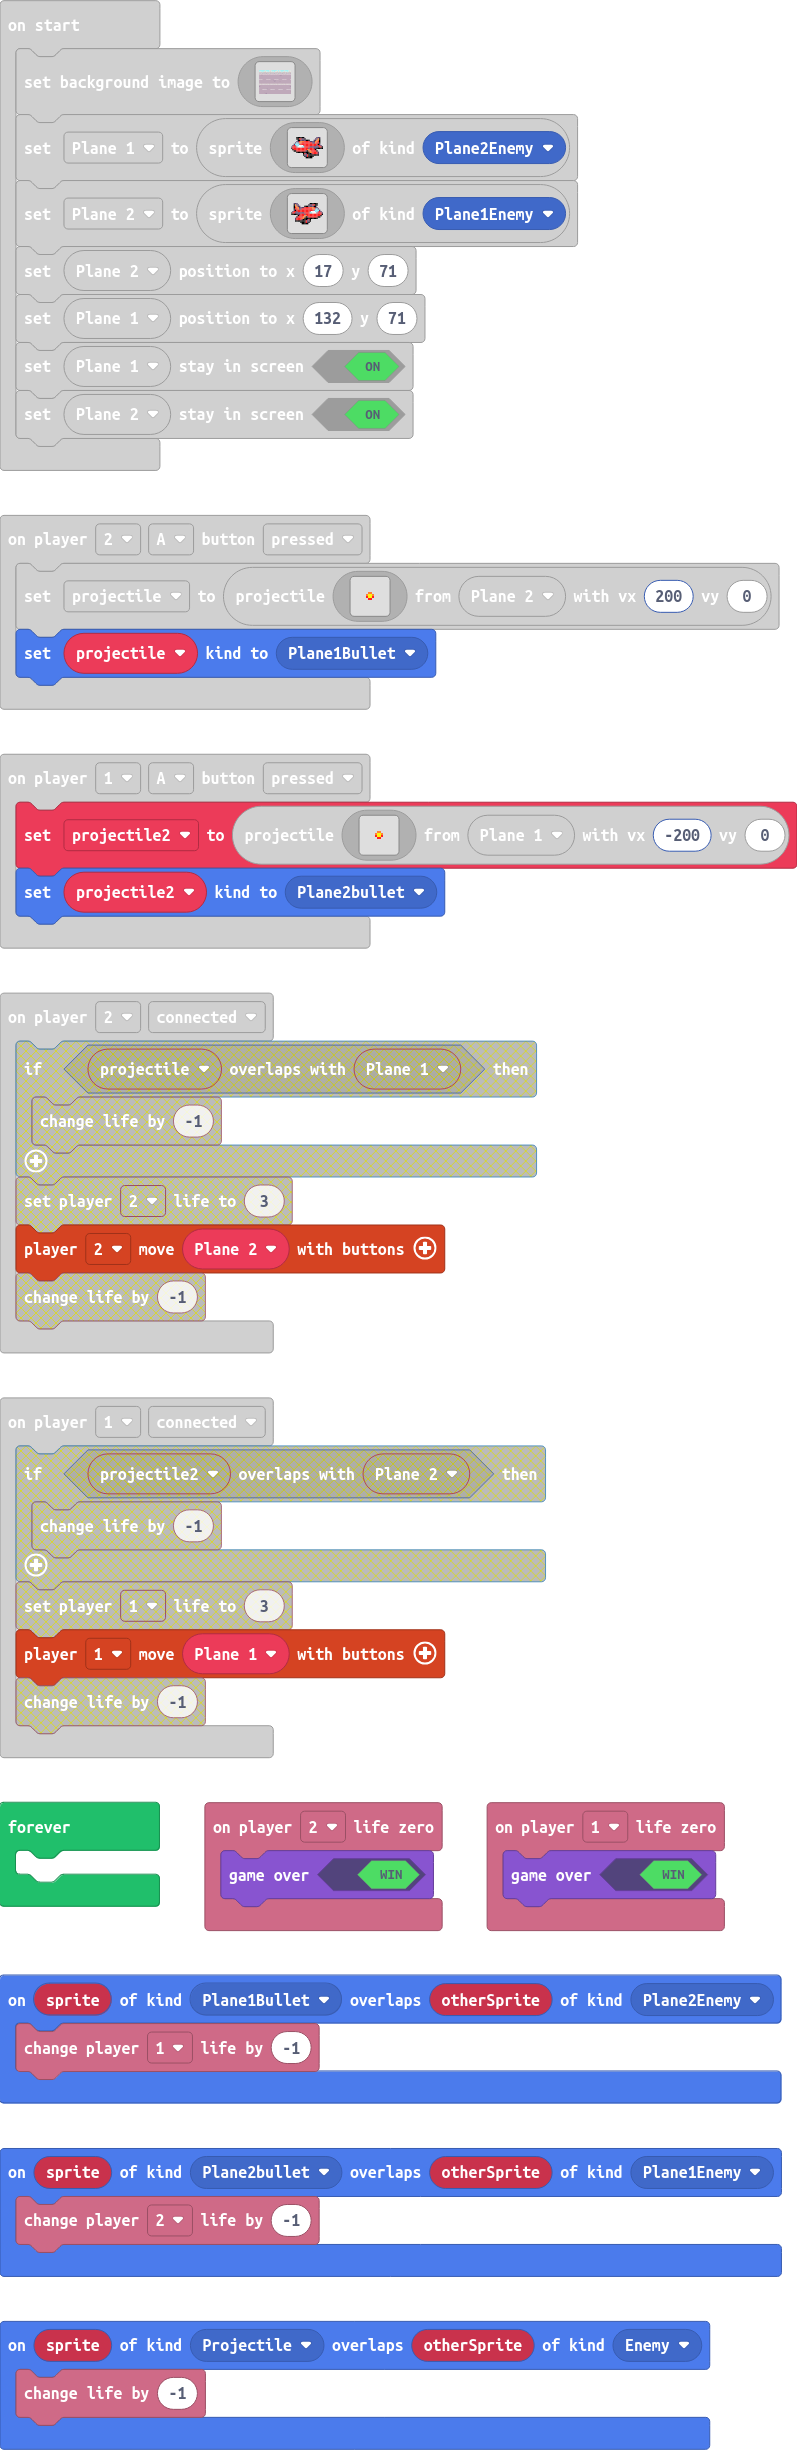
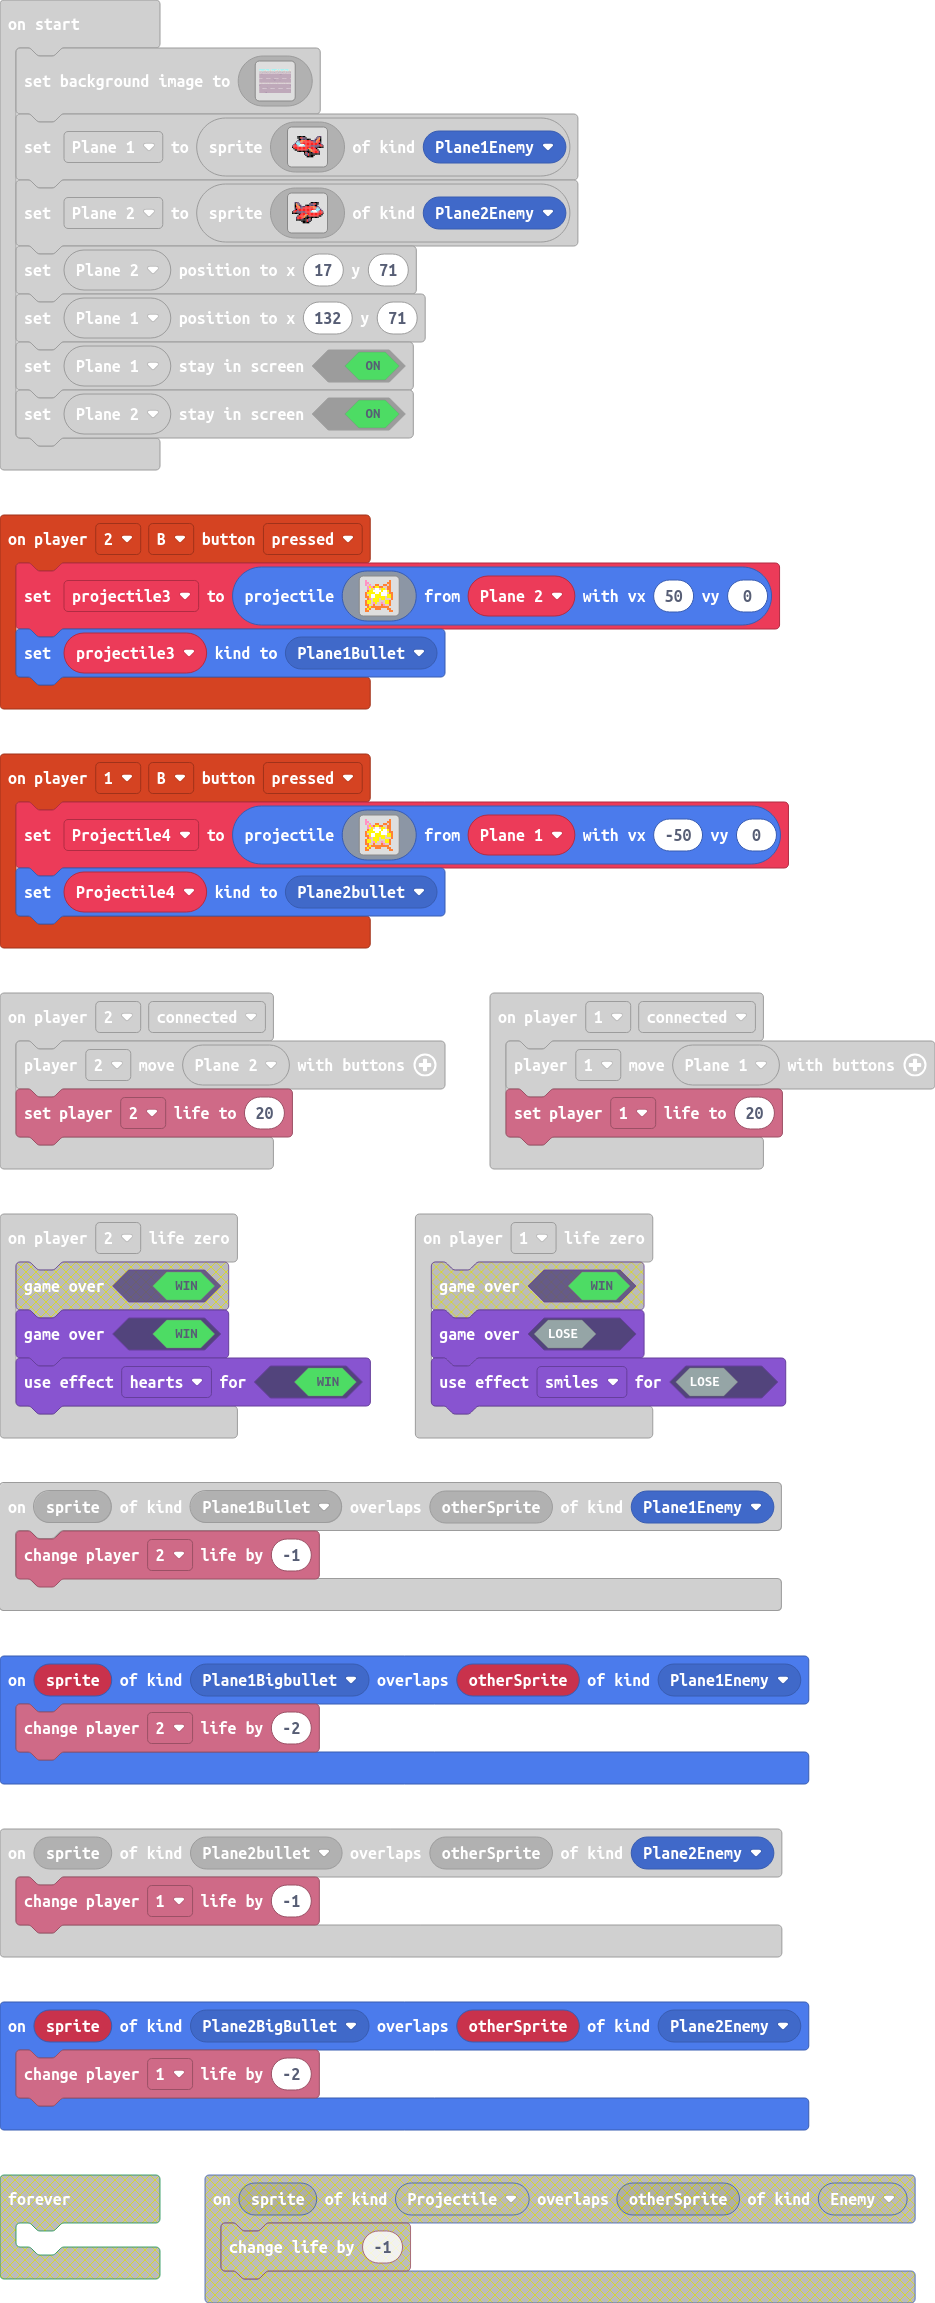
Update main.blocks, main.ts

diff --git a/main.ts b/main.ts
@@ -3,7 +3,33 @@ namespace SpriteKind {
     export const Plane1Enemy = SpriteKind.create()
     export const Plane1Bullet = SpriteKind.create()
     export const Plane2bullet = SpriteKind.create()
+    export const Plane1Bigbullet = SpriteKind.create()
+    export const Plane2BigBullet = SpriteKind.create()
 }
+controller.player2.onButtonEvent(ControllerButton.B, ControllerButtonEvent.Pressed, function () {
+    projectile3 = sprites.createProjectileFromSprite(img`
+        . 3 . . . . . . . . . . . 4 . . 
+        . 3 3 . . . . . . . . . 4 4 . . 
+        . 3 d 3 . . 4 4 . . 4 4 d 4 . . 
+        . . 3 5 3 4 5 5 4 4 d d 4 4 . . 
+        . . 3 d 5 d 1 1 d 5 5 d 4 4 . . 
+        . . 4 5 5 1 1 1 1 5 1 1 5 4 . . 
+        . 4 5 5 5 5 1 1 5 1 1 1 d 4 4 . 
+        . 4 d 5 1 1 5 5 5 1 1 1 5 5 4 . 
+        . 4 4 5 1 1 5 5 5 5 5 d 5 5 4 . 
+        . . 4 3 d 5 5 5 d 5 5 d d d 4 . 
+        . 4 5 5 d 5 5 5 d d d 5 5 4 . . 
+        . 4 5 5 d 3 5 d d 3 d 5 5 4 . . 
+        . 4 4 d d 4 d d d 4 3 d d 4 . . 
+        . . 4 5 4 4 4 4 4 4 4 4 4 . . . 
+        . 4 5 4 . . 4 4 4 . . . 4 4 . . 
+        . 4 4 . . . . . . . . . . 4 4 . 
+        `, Plane_2, 50, 0)
+    projectile3.setKind(SpriteKind.Plane1Bullet)
+})
+sprites.onOverlap(SpriteKind.Plane1Bullet, SpriteKind.Plane1Enemy, function (sprite, otherSprite) {
+    info.player2.changeLifeBy(-1)
+})
 controller.player2.onButtonEvent(ControllerButton.A, ControllerButtonEvent.Pressed, function () {
     projectile = sprites.createProjectileFromSprite(img`
         . . . . . . . . . . . . . . . . 
@@ -25,11 +51,8 @@ controller.player2.onButtonEvent(ControllerButton.A, ControllerButtonEvent.Press
         `, Plane_2, 200, 0)
     projectile.setKind(SpriteKind.Plane1Bullet)
 })
-sprites.onOverlap(SpriteKind.Plane1Bullet, SpriteKind.Plane2Enemy, function (sprite, otherSprite) {
-    info.player1.changeLifeBy(-1)
-})
-sprites.onOverlap(SpriteKind.Plane2bullet, SpriteKind.Plane1Enemy, function (sprite, otherSprite) {
-    info.player2.changeLifeBy(-1)
+sprites.onOverlap(SpriteKind.Plane2BigBullet, SpriteKind.Plane2Enemy, function (sprite, otherSprite) {
+    info.player1.changeLifeBy(-2)
 })
 controller.player1.onButtonEvent(ControllerButton.A, ControllerButtonEvent.Pressed, function () {
     projectile2 = sprites.createProjectileFromSprite(img`
@@ -53,22 +76,52 @@ controller.player1.onButtonEvent(ControllerButton.A, ControllerButtonEvent.Press
     projectile2.setKind(SpriteKind.Plane2bullet)
 })
 info.player1.onLifeZero(function () {
-    game.gameOver(true)
+    game.gameOver(false)
+    game.setGameOverEffect(false, effects.smiles)
 })
 info.player2.onLifeZero(function () {
     game.gameOver(true)
+    game.setGameOverEffect(true, effects.hearts)
 })
 controller.player2.onEvent(ControllerEvent.Connected, function () {
     controller.player2.moveSprite(Plane_2)
+    info.player2.setLife(20)
+})
+controller.player1.onButtonEvent(ControllerButton.B, ControllerButtonEvent.Pressed, function () {
+    Projectile4 = sprites.createProjectileFromSprite(img`
+        . 3 . . . . . . . . . . . 4 . . 
+        . 3 3 . . . . . . . . . 4 4 . . 
+        . 3 d 3 . . 4 4 . . 4 4 d 4 . . 
+        . . 3 5 3 4 5 5 4 4 d d 4 4 . . 
+        . . 3 d 5 d 1 1 d 5 5 d 4 4 . . 
+        . . 4 5 5 1 1 1 1 5 1 1 5 4 . . 
+        . 4 5 5 5 5 1 1 5 1 1 1 d 4 4 . 
+        . 4 d 5 1 1 5 5 5 1 1 1 5 5 4 . 
+        . 4 4 5 1 1 5 5 5 5 5 d 5 5 4 . 
+        . . 4 3 d 5 5 5 d 5 5 d d d 4 . 
+        . 4 5 5 d 5 5 5 d d d 5 5 4 . . 
+        . 4 5 5 d 3 5 d d 3 d 5 5 4 . . 
+        . 4 4 d d 4 d d d 4 3 d d 4 . . 
+        . . 4 5 4 4 4 4 4 4 4 4 4 . . . 
+        . 4 5 4 . . 4 4 4 . . . 4 4 . . 
+        . 4 4 . . . . . . . . . . 4 4 . 
+        `, Plane_1, -50, 0)
+    Projectile4.setKind(SpriteKind.Plane2bullet)
+})
+sprites.onOverlap(SpriteKind.Plane1Bigbullet, SpriteKind.Plane1Enemy, function (sprite, otherSprite) {
+    info.player2.changeLifeBy(-2)
+})
+sprites.onOverlap(SpriteKind.Plane2bullet, SpriteKind.Plane2Enemy, function (sprite, otherSprite) {
+    info.player1.changeLifeBy(-1)
 })
 controller.player1.onEvent(ControllerEvent.Connected, function () {
     controller.player1.moveSprite(Plane_1)
+    info.player1.setLife(20)
 })
-sprites.onOverlap(SpriteKind.Projectile, SpriteKind.Enemy, function (sprite, otherSprite) {
-    info.changeLifeBy(-1)
-})
+let Projectile4: Sprite = null
 let projectile2: Sprite = null
 let projectile: Sprite = null
+let projectile3: Sprite = null
 let Plane_2: Sprite = null
 let Plane_1: Sprite = null
 scene.setBackgroundImage(img`
@@ -210,7 +263,7 @@ Plane_1 = sprites.create(img`
     .........fcc2ffffffff...
     ..........fc2ffff.......
     ...........fffff........
-    `, SpriteKind.Plane2Enemy)
+    `, SpriteKind.Plane1Enemy)
 Plane_2 = sprites.create(img`
     ..ccc.........ffffff....
     ..f4cc.......fcc22ff....
@@ -228,11 +281,8 @@ Plane_2 = sprites.create(img`
     ...ffffffff2ccf.........
     .......ffff2cf..........
     ........fffff...........
-    `, SpriteKind.Plane1Enemy)
+    `, SpriteKind.Plane2Enemy)
 Plane_2.setPosition(17, 71)
 Plane_1.setPosition(132, 71)
 Plane_1.setStayInScreen(true)
 Plane_2.setStayInScreen(true)
-forever(function () {
-	
-})
